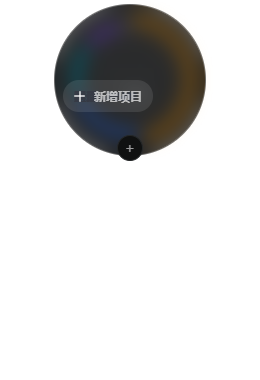
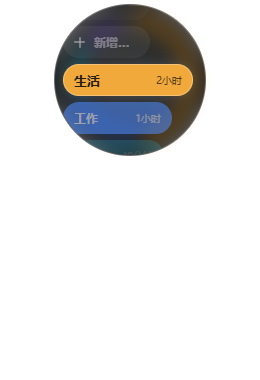
fix(widget): 修浮层"只剩新增项目一条" —— 一个异常带崩了整段定位
用户截图：滚轮后浮层里只有「＋ 新增项目」一条，其他分类全不见。

## 根因链
浮层里"量文字宽"和"定位"写在同一个 forEach 序列里，前面抛一个异常，
**后面的定位整段不执行** → 所有行都停在 top:50% 叠在中心，
视觉上只剩最后画的那条（就是用户截图里那一条）。测量证实：7 行全部
op=1 且 style.top 为空。

## 修法（两层）
1. 量宽包 try —— **位置是命脉、宽度是装饰，两者不能串在一起**
2. **maxSec 挪到 try 外面**：它只依赖 ringData、不会抛；一旦被兜底留在初始值 1，
   所有非零的条都会算成 share=1 → 全变满宽，条长失去意义
   （这也解释了为什么之前会出现"所有条一样宽"——同一个根因的另一个症状）

顺带修正上一版的无效 CSS：位置原先写进
`transform: translateY(calc(-50% + Npx))`，**百分比与像素混用的 calc 被判无效后
整条声明被静默丢弃** → 改成用 top 表达偏移、transform 只负责居中。

## 验证（playwright，260×380）
- 位置已写入且**循环正确**：
  生活 +0（选中）/ 工作 +38 / 阅读 +76 / 学习 +114 /
  运动 -114 / 写作 -76 / **新增项目 -38（末位绕到了最上方）**
- 条宽 **130/109/101/98/87/87/87**，随时长单调递减
- 浮层时序：滚轮后立刻 opacity=1、状态仍"空闲"；2 秒后 opacity=0、状态=生活、读数 0:05

Changed region(s): [[0.2154, 0.0868, 0.7692, 0.4342]]

diff --git a/site/app.js b/site/app.js
@@ -856,23 +856,30 @@ function updatePickOverlay() {
 
   /* 先写文字、量**文字**宽。不要量条本身：条宽是我们自己上一轮写进去的，
      再量它会把零点顶到满格、所有条被拉平成一样长（第一版就是这么错的）。 */
+  /* ⚠ 量宽必须包 try：它只是"锦上添花"，一旦抛异常会把后面的**定位**带崩，
+     结果是所有条叠在中心、看着只剩一条（用户截图就是这个现象）。
+     位置是命脉，宽度是装饰，两者不能串在一起。 */
   let L0 = 80
-  pickRows.forEach((r) => {
-    const it = ringData.find((x) => x.id === r.id) || {}
-    r.nm.textContent = pickName(r.id)
-    r.du.textContent = r.id === '__add__' ? '' : ((it.sec || 0) > 0 ? fmtDurMin(it.sec) : '—')
-    const icon = r.id === '__add__' ? 13 : 0      // ＋ 是线条画的 11px 图标 + 2px 间距，
-                                                 // 不量进去「新增项目」就会被截成「新增…」
-    L0 = Math.max(L0, r.nm.scrollWidth + r.du.scrollWidth + icon + 7 + 22 + 2)
-  })
-  L0 = Math.min(L0, maxW)
-
+  /* maxSec 放在 try 外面：它只依赖 ringData，不会抛；而它一旦留在兜底值 1，
+     所有非零的条都会算成 share=1 → 全变成满宽，条长就彻底失去意义了 */
   const maxSec = Math.max(1, ...ringData.map((x) => x.sec || 0))
+  try {
+    pickRows.forEach((r) => {
+      const it = ringData.find((x) => x.id === r.id) || {}
+      r.nm.textContent = pickName(r.id)
+      if (r.du) r.du.textContent = (it.sec || 0) > 0 ? fmtDurMin(it.sec) : '—'
+      const icon = r.id === '__add__' ? 13 : 0    // ＋ 是线条画的 11px 图标 + 2px 间距
+      L0 = Math.max(L0, r.nm.scrollWidth + r.du.scrollWidth + icon + 7 + 22 + 2)
+    })
+    L0 = Math.min(L0, maxW)
+  } catch (err) {
+    L0 = Math.max(80, Math.min(L0, maxW))         // 量失败就退回保守值，继续往下走
+  }
   pickRows.forEach((r, i) => {
     let d = i - fi                       // 环形最短距离 → 到末位自然绕回开头
     if (d > n / 2) d -= n
     if (d < -n / 2) d += n
-    r.el.style.transform = 'translateY(calc(-50% + ' + (d * PICK_ROW_H) + 'px))'
+    r.el.style.top = 'calc(50% + ' + (d * PICK_ROW_H) + 'px)'   // 居中由 CSS 的 translateY(-50%) 负责
     const a = Math.abs(d)
     r.el.style.opacity = a < 0.5 ? 1 : a < 1.5 ? 0.55 : a < 2.5 ? 0.22 : 0
     r.el.style.visibility = a > 2.5 ? 'hidden' : 'visible'

diff --git a/site/style.css b/site/style.css
@@ -629,11 +629,16 @@ textarea:focus { border-color: var(--primary); background: #fff; }
 #widget-pick-list { position: absolute; inset: 0; }
 
 .wp-row {
-  position: absolute; left: 8px; right: 8px; top: 50%;
+  position: absolute; left: 8px; right: 8px;
+  /* 位置用 top 表达（JS 写 calc(50% + Npx)），transform 只负责居中。
+     之前把偏移写进 transform 的 translateY(calc(-50% + Npx)) —— 百分比和像素混用的
+     calc 被判为无效值后**整条声明被静默丢弃**，于是所有行全叠在一起。
+     top 写 calc 组合是安全的，且 transform 不再承载动态值。 */
+  top: 50%; transform: translateY(-50%);
   display: flex; justify-content: flex-start;
-  /* translateY 由 JS 按"环形最短距离"写入 → 到末位自然绕回开头，是真循环而不是跳回 */
-  transition: transform 150ms cubic-bezier(.22,1,.36,1), opacity 150ms ease;
-  will-change: transform, opacity;
+  /* top 由 JS 按"环形最短距离"写入 → 到末位自然绕回开头，是真循环而不是跳回 */
+  transition: top 150ms cubic-bezier(.22,1,.36,1), opacity 150ms ease;
+  will-change: top, opacity;
 }
 .wp-bar {
   position: relative; display: flex; align-items: center; justify-content: space-between;
